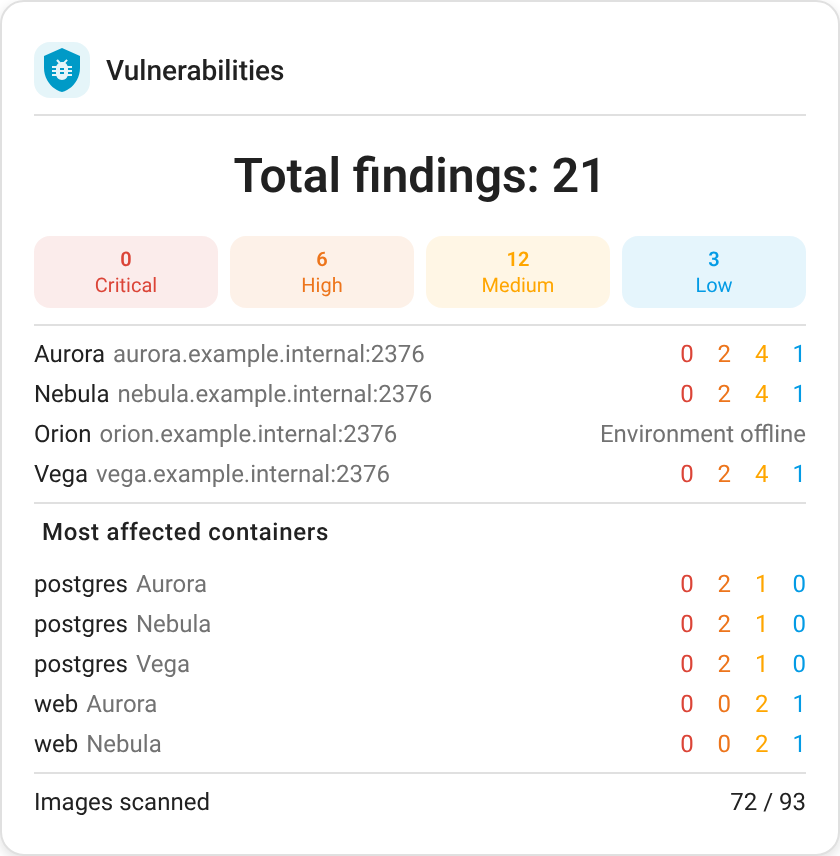
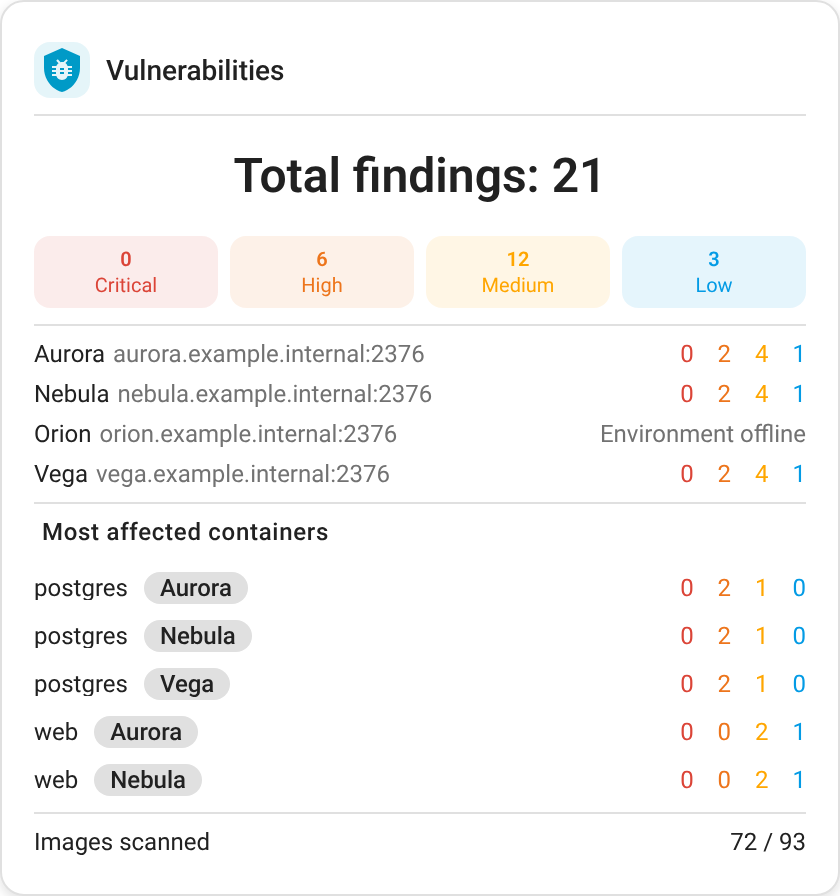
Vulnerability card: environment pill on most affected containers
With several environments, a container's environment showed as muted
text after its name, like an environment row's host. It is now the
list cards' environment pill (label-pill name-label) beside the name,
which RowFitController leaves out when the name would be squeezed, as
on the Containers, Stacks and Schedules cards. The name side is the
click target, as .row-left is on the list cards, so no clickable element
clips its content (checked by a11y.py's corner check).

Claude-Session: https://claude.ai/code/session_01Y5FKGs81VJ4pZCobYPMcHj

Changed region(s): [[0.031, 0.0304, 0.9595, 0.972], [0.1238, 0.0607, 0.3405, 0.0911], [0.8976, 0.6379, 0.9595, 0.7897]]

diff --git a/src/dockhand-vulnerability-card/rollup.dom.test.ts b/src/dockhand-vulnerability-card/rollup.dom.test.ts
@@ -186,7 +186,7 @@ describe('Vulnerability card, most affected containers', () => {
     // listed, nor the offline environment's.
     expect(rows.slice(0, 3).every((r) => r.startsWith('postgres'))).toBe(true);
     expect(rows[3]).toMatch(/^web /);
-    expect(text(el, '.container-row .instance')).toHaveLength(5);
+    expect(text(el, '.container-row .label-pill.name-label')).toHaveLength(5);
     // The counts share the environments' column width.
     const widths = [...el.shadowRoot!.querySelectorAll<HTMLElement>('.severity-counts')].map((n) => n.style.getPropertyValue('--sev-width'));
     expect(new Set(widths)).toEqual(new Set(['1ch']));
@@ -197,13 +197,13 @@ describe('Vulnerability card, most affected containers', () => {
     const opened: string[] = [];
     el.addEventListener('hass-more-info', (ev) => opened.push((ev as CustomEvent).detail.entityId));
     const rows = [...el.shadowRoot!.querySelectorAll<HTMLElement>('.container-row')];
-    expect(rows.map((r) => [r.querySelector('.row-icon')!.textContent!.trim(), ...[...r.querySelectorAll('.sev-count')].map((n) => n.textContent)])).toEqual([
+    expect(rows.map((r) => [r.querySelector('.item-name')!.textContent!.trim(), ...[...r.querySelectorAll('.sev-count')].map((n) => n.textContent)])).toEqual([
       ['postgres', '0', '2', '1', '0'],
       ['web', '0', '0', '2', '1']
     ]);
     // One environment: no environment label.
-    expect(text(el, '.container-row .instance')).toEqual([]);
-    rows[0].querySelector<HTMLElement>('.row-icon')!.click();
+    expect(text(el, '.container-row .name-label')).toEqual([]);
+    rows[0].querySelector<HTMLElement>('.row-left')!.click();
     rows[0].querySelector<HTMLElement>('.sev-count.high')!.click();
     expect(opened).toEqual(['sensor.nebula_postgres_vulnerabilities', 'sensor.nebula_postgres_vulnerabilities_high']);
 

diff --git a/src/dockhand-vulnerability-card/card.ts b/src/dockhand-vulnerability-card/card.ts
@@ -1,3 +1,4 @@
+import { RowFitController } from '../common/row-fit';
 import { loadEditor } from '../common/editor-loader';
 import { LitElement, html, nothing, type TemplateResult } from 'lit';
 import { state } from 'lit/decorators.js';
@@ -76,6 +77,11 @@ export function mostAffectedContainers(hass: HomeAssistant, environmentDeviceIds
 }
 
 export class DockhandVulnerabilityCard extends LitElement implements LovelaceCard {
+  constructor() {
+    super();
+    new RowFitController(this);
+  }
+
   static styles = cardStyles;
 
   @state() private _config?: DockhandVulnerabilityCardConfig;
@@ -288,15 +294,20 @@ export class DockhandVulnerabilityCard extends LitElement implements LovelaceCar
         const v = c.vulnerabilities;
         const open = v.totalEntityId ?? Object.values(v.entityIds)[0];
         const env = labelled ? hass.devices?.[c.environmentDeviceId] : undefined;
+        // The name side opens the container's Vulnerabilities sensor, its
+        // environment pill as on the list cards (RowFitController leaves
+        // it out when the name would be squeezed).
         return html`<div class="row container-row">
-          <span
-            class="row-icon truncate clickable"
+          <div
+            class="row-left clickable"
             tabindex="0"
             role="button"
             @click=${() => this._moreInfo(open)}
             @keydown=${onKeydownActivate(() => this._moreInfo(open))}
-            >${c.name}${env ? html` <span class="instance">${env.name_by_user || env.name}</span>` : nothing}</span
           >
+            <span class="item-name">${c.name}</span>
+            ${env ? html`<span class="label-pill name-label">${env.name_by_user || env.name}</span>` : nothing}
+          </div>
           ${this._severityCounts(v, v.total, digits)}
         </div>`;
       })}`;

diff --git a/src/dockhand-vulnerability-card/styles.ts b/src/dockhand-vulnerability-card/styles.ts
@@ -34,7 +34,6 @@ export const cardStyles = css`
     color: var(--dockhand-severity-medium-text-color);
   }
   .env-row .instance,
-  .container-row .instance,
   .env-row .muted {
     color: var(--secondary-text-color);
   }

diff --git a/docs/cards/vulnerability.md b/docs/cards/vulnerability.md
@@ -13,7 +13,7 @@ top_containers: 5 # most affected containers listed; 0 for none
 
 With one environment shown: its total findings with a critical/high/medium/low breakdown, and how many images have been scanned. With more: their findings added up, and a row per environment with its critical, high, medium and low counts, lined up in columns (click a count for its sensor). Dockhand counts per environment, so an image running in two environments counts in both. Choose the environments at the top of the editor, as in the list cards. Needs each environment's **Vulnerabilities** sensor enabled in Home Assistant (it's disabled by default; so are **Critical**, **High**, **Medium** and **Low vulnerabilities** and **Scanned images**, which the card shows when they're on) and vulnerability scanning turned on for that environment in Dockhand.
 
-Under that, the containers with the most severe findings, ranked as Dockhand ranks them (critical first, then high, medium and low), each with its four counts in the same columns; with several environments each is labelled with its environment. Click a container for its Vulnerabilities sensor, or a count for that severity's. Clean containers and ones whose image hasn't been scanned aren't listed. The list needs ha-dockhand 2.2.0 with Dockhand 1.0.59 or later, and the containers' vulnerability sensors turned on (**Vulnerabilities** under **Container entities** in the integration's Configure); the editor says when they're off.
+Under that, the containers with the most severe findings, ranked as Dockhand ranks them (critical first, then high, medium and low), each with its four counts in the same columns; with several environments each has its environment's pill, as on the list cards, left out when the card is too narrow for it. Click a container for its Vulnerabilities sensor, or a count for that severity's. Clean containers and ones whose image hasn't been scanned aren't listed. The list needs ha-dockhand 2.2.0 with Dockhand 1.0.59 or later, and the containers' vulnerability sensors turned on (**Vulnerabilities** under **Container entities** in the integration's Configure); the editor says when they're off.
 
 A card from before 2.0.0 with `device_id` keeps showing just that environment; the editor turns it into `exclude_device_ids` with your next change.
 

diff --git a/CHANGELOG.md b/CHANGELOG.md
@@ -12,7 +12,7 @@ and [Unreleased] is the notes of the current test build.
 
 ### Added
 
-- The Vulnerability card lists the most affected containers under its totals, most severe first, with each one's four counts (`top_containers`, 5 by default). Needs ha-dockhand 2.2.0 with Dockhand 1.0.59 or later and the containers' vulnerability sensors turned on.
+- The Vulnerability card lists the most affected containers under its totals, most severe first, with each one's four counts and, with several environments, its environment's pill (`top_containers`, 5 by default). Needs ha-dockhand 2.2.0 with Dockhand 1.0.59 or later and the containers' vulnerability sensors turned on.
 - The Containers card can show each container's findings as a row detail (`vulnerabilities`) and sort by them (`sort_by: vulnerabilities`), with the same requirements.
 
 ### Fixed
